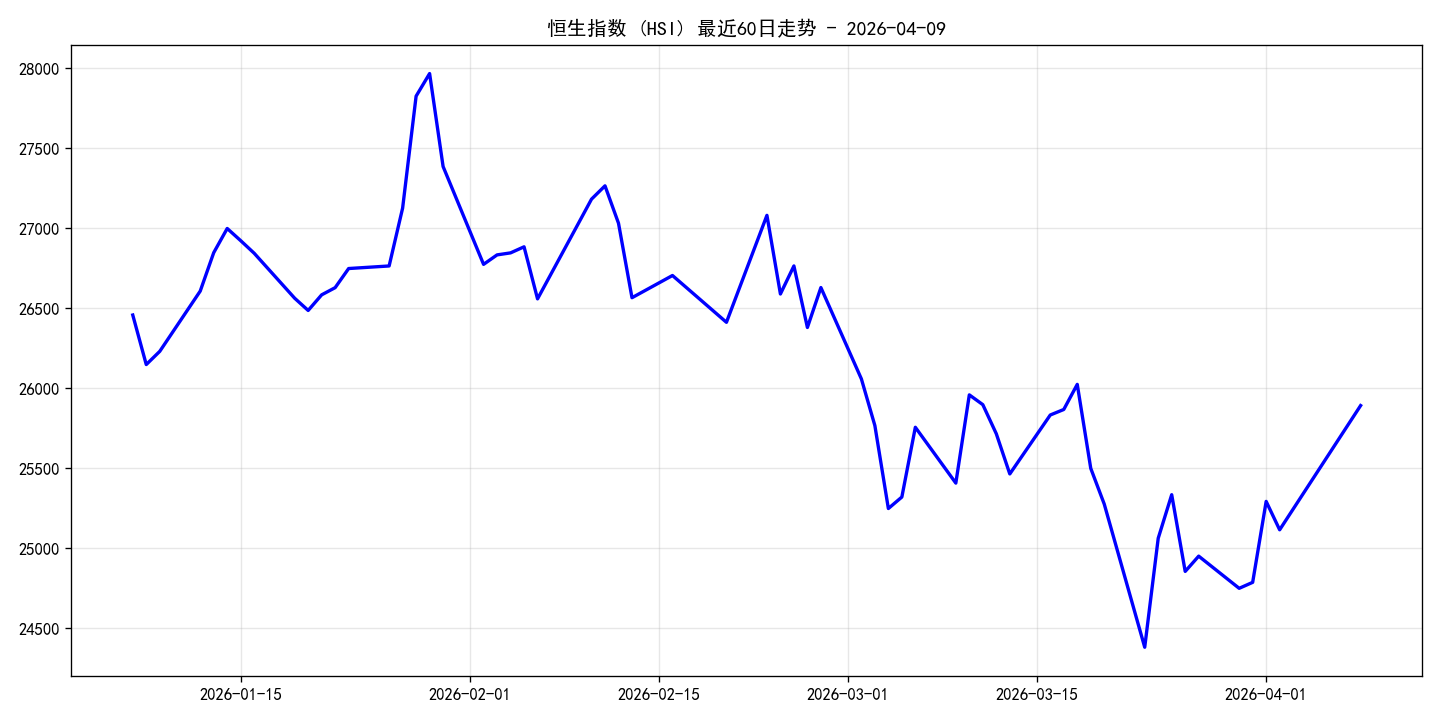
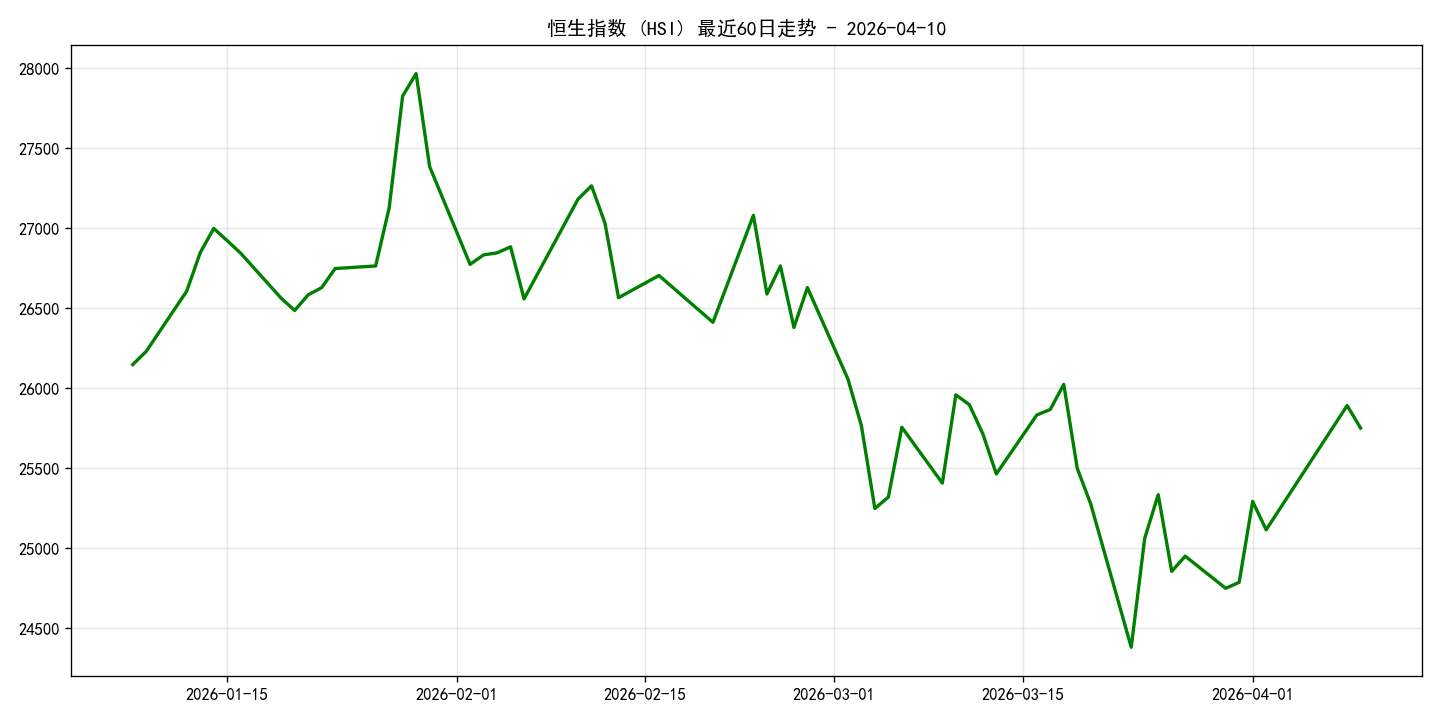
Auto: Daily HK-share Recap Update 2026-04-10

diff --git a/hkshare_recap.html b/hkshare_recap.html
@@ -3,7 +3,7 @@
 <head>
     <meta charset="UTF-8">
     <meta name="viewport" content="width=device-width, initial-scale=1.0">
-    <title>港股收盘复盘 - 2026-04-09</title>
+    <title>港股收盘复盘 - 2026-04-10</title>
     <style>
         body { font-family: sans-serif; padding: 20px; line-height: 1.6; max-width: 800px; margin: 0 auto; background: #f9f9f9; }
         .card { background: white; padding: 20px; border-radius: 12px; shadow: 0 4px 10px rgba(0,0,0,0.1); }
@@ -15,12 +15,12 @@
 </head>
 <body>
     <div class="card">
-        <h1>港股收盘复盘 (2026-04-09)</h1>
+        <h1>港股收盘复盘 (2026-04-10)</h1>
         <div class="stat">
-            恒生指数 (HSI)：25893.02 
-            <span class="up">(+3.09%)</span>
+            恒生指数 (HSI)：25752.40 
+            <span class="down">(-0.54%)</span>
         </div>
-        <p>今日港股市场呈现<strong>上涨</strong>态势。恒指当前点位为 25893.02 点。</p>
+        <p>今日港股市场呈现<strong>下跌</strong>态势。恒指当前点位为 25752.40 点。</p>
         <img src="hkshare_recap_trend.png" alt="Trend">
         <hr>
         <p style="text-align: center; color: #666;">自动生成于收盘后一小时 | 投研助手 Q</p>
